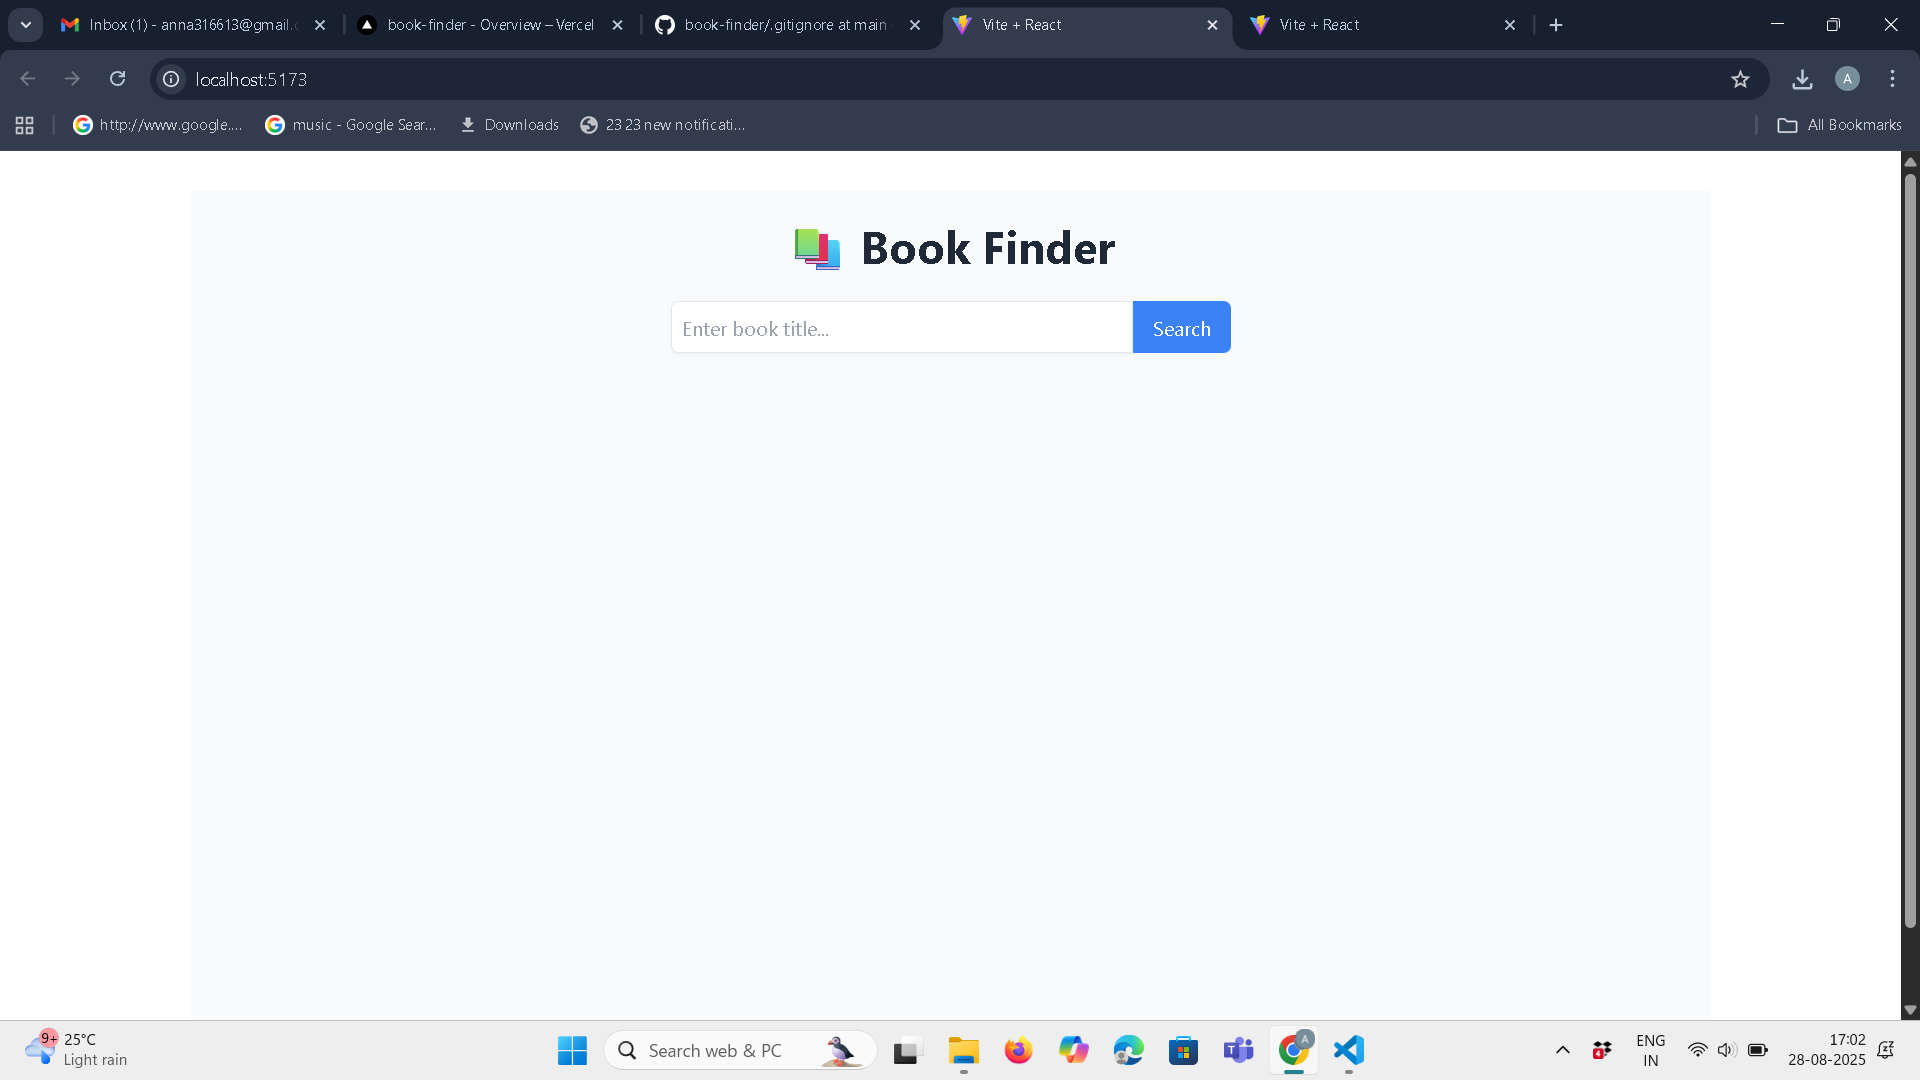
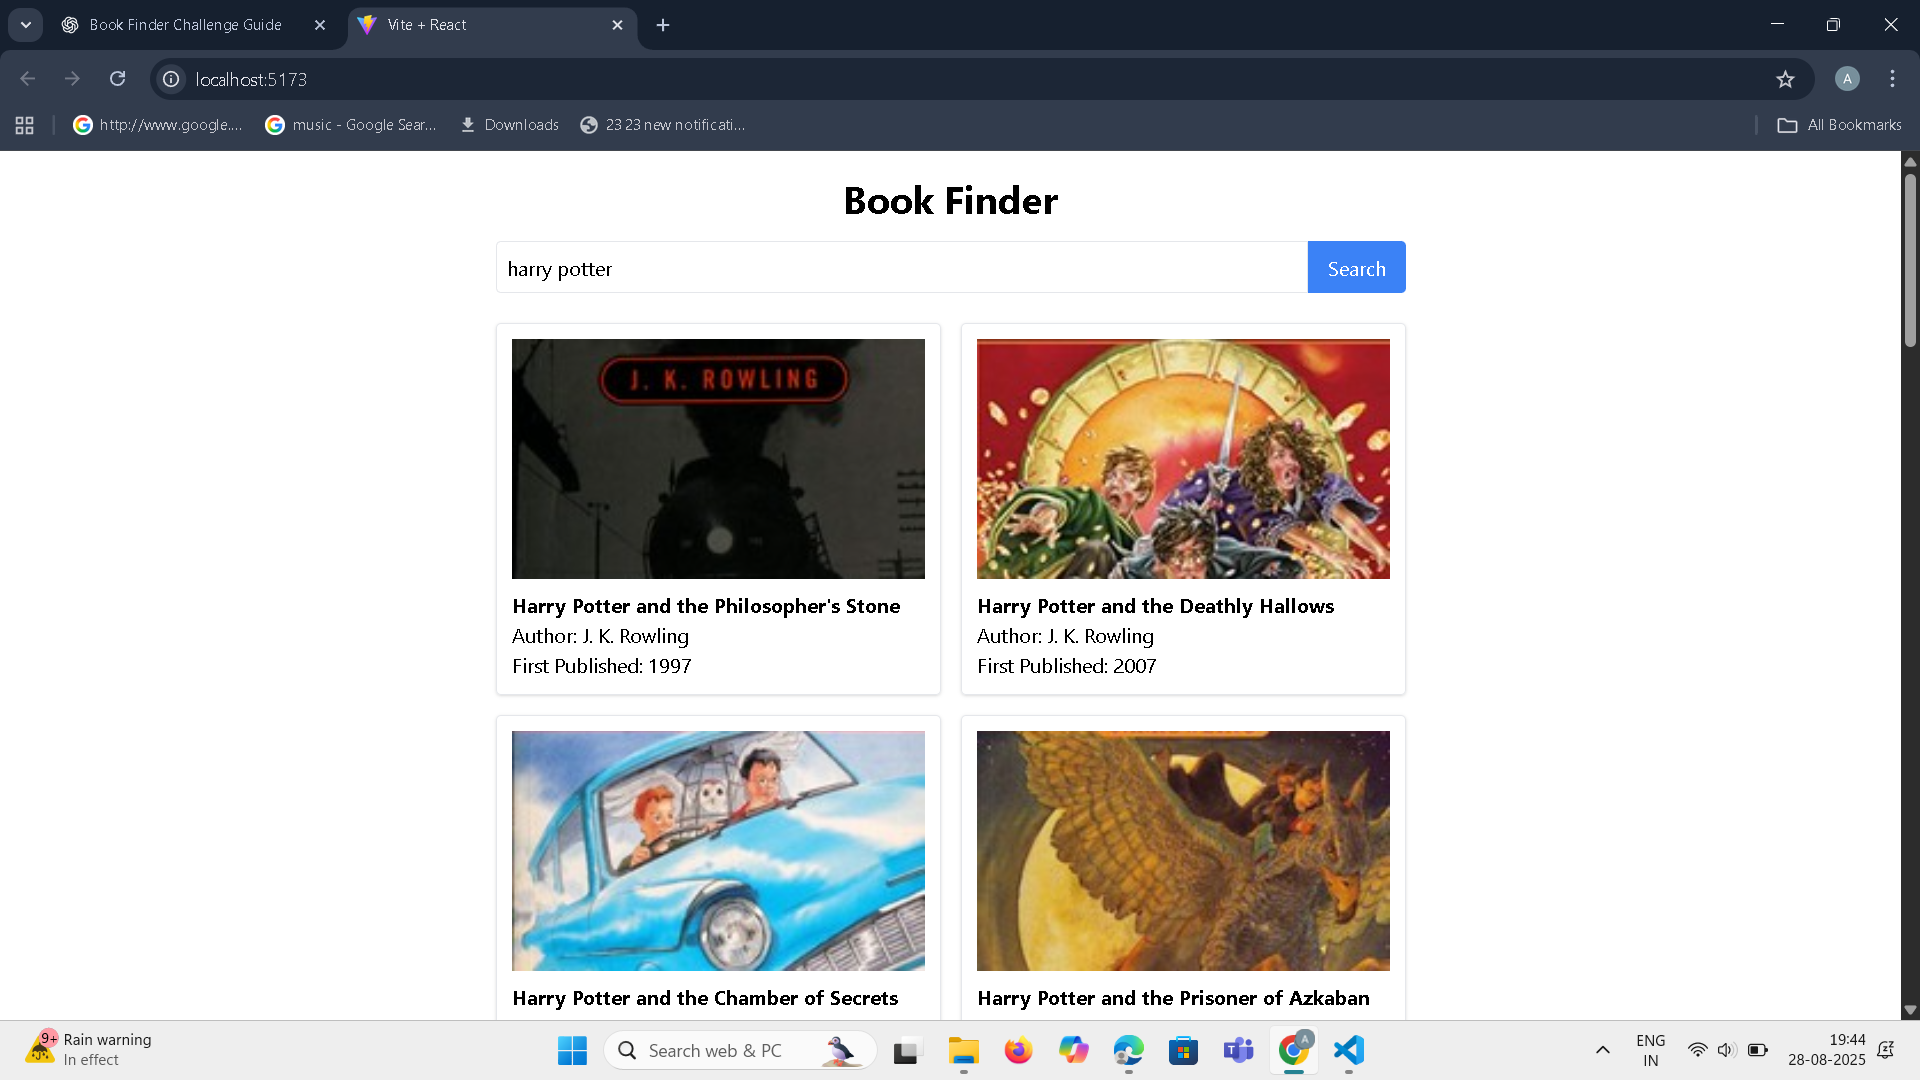
Update App.js with new Book Finder UI and API handling

diff --git a/src/App.jsx b/src/App.jsx
@@ -1,5 +1,4 @@
 import { useState } from "react";
-import "./App.css";
 
 function App() {
   const [query, setQuery] = useState("");
@@ -15,70 +14,58 @@ function App() {
 
     try {
       const res = await fetch(
-        `https://openlibrary.org/search.json?title=${encodeURIComponent(query)}`
+        `https://openlibrary.org/search.json?title=${query}`
       );
       const data = await res.json();
-
-      if (data.docs.length === 0) {
-        setError("No books found.");
-      }
-      setBooks(data.docs.slice(0, 12)); // show 12 results
+      setBooks(data.docs.slice(0, 20)); 
     } catch {
-      setError("Failed to fetch books.");
+      setError("Failed to fetch books. Try again.");
     } finally {
       setLoading(false);
     }
   };
 
   return (
-    <div className="min-h-screen bg-gray-50 p-6 flex flex-col items-center">
-      <h1 className="text-4xl font-bold text-center mb-6 text-gray-800">
-        📚 Book Finder
-      </h1>
+    <div className="p-5 max-w-3xl mx-auto">
+      <h1 className="text-3xl font-bold mb-4 text-center">Book Finder</h1>
 
-      <div className="flex w-full max-w-md mb-6">
+      <div className="flex mb-6">
         <input
           type="text"
           value={query}
           onChange={(e) => setQuery(e.target.value)}
-          placeholder="Enter book title..."
-          className="flex-grow border p-2 rounded-l-md shadow-sm focus:outline-none focus:ring-2 focus:ring-blue-400"
+          placeholder="Search books..."
+          className="flex-1 border p-2 rounded-l"
         />
         <button
           onClick={searchBooks}
-          className="bg-blue-500 text-white px-4 rounded-r-md hover:bg-blue-600 transition"
+          className="bg-blue-500 text-white px-4 rounded-r hover:bg-blue-600"
         >
           Search
         </button>
       </div>
 
-      {loading && <div className="animate-spin rounded-full h-8 w-8 border-t-2 border-b-2 border-blue-600"></div>}
-      {error && <p className="text-center text-red-500">{error}</p>}
+      {loading && <p>Loading...</p>}
+      {error && <p className="text-red-500">{error}</p>}
 
-      <ul className="grid grid-cols-1 sm:grid-cols-2 md:grid-cols-3 gap-6 w-full max-w-5xl">
-        {books.map((book, index) => (
-          <li
-            key={index}
-            className="p-4 bg-white rounded-lg shadow hover:shadow-lg transition flex flex-col items-center"
-          >
-            {book.cover_i ? (
-              <img
-                src={`https://covers.openlibrary.org/b/id/${book.cover_i}-M.jpg`}
-                alt={book.title}
-                className="h-60 w-auto object-contain mb-3 rounded"
-              />
-            ) : (
-              <div className="h-60 w-40 bg-gray-200 flex items-center justify-center text-gray-500 text-sm mb-3">
-                No Cover
-              </div>
-            )}
-            <h2 className="font-semibold text-lg text-center">{book.title}</h2>
-            <p className="text-sm text-gray-600 text-center">
-              {book.author_name ? book.author_name.join(", ") : "Unknown Author"}
-            </p>
-          </li>
+      <div className="grid grid-cols-1 sm:grid-cols-2 gap-4">
+        {books.map((book) => (
+          <div key={book.key} className="border p-3 rounded shadow">
+            <img
+              src={
+                book.cover_i
+                  ? `https://covers.openlibrary.org/b/id/${book.cover_i}-M.jpg`
+                  : "https://via.placeholder.com/150x200?text=No+Cover"
+              }
+              alt={book.title}
+              className="w-full h-48 object-cover mb-2"
+            />
+            <h2 className="font-bold">{book.title}</h2>
+            <p>Author: {book.author_name?.join(", ") || "N/A"}</p>
+            <p>First Published: {book.first_publish_year || "N/A"}</p>
+          </div>
         ))}
-      </ul>
+      </div>
     </div>
   );
 }
